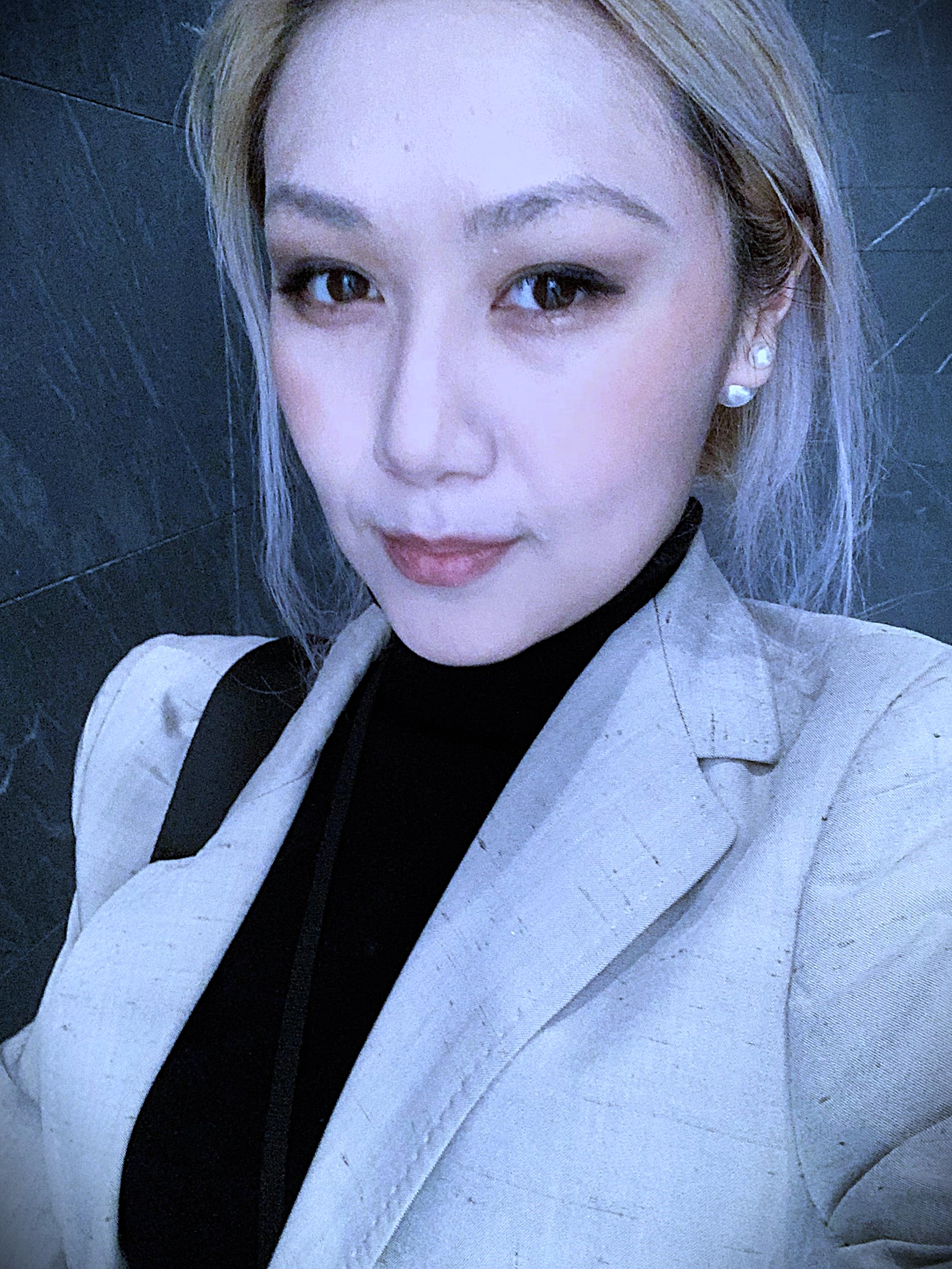
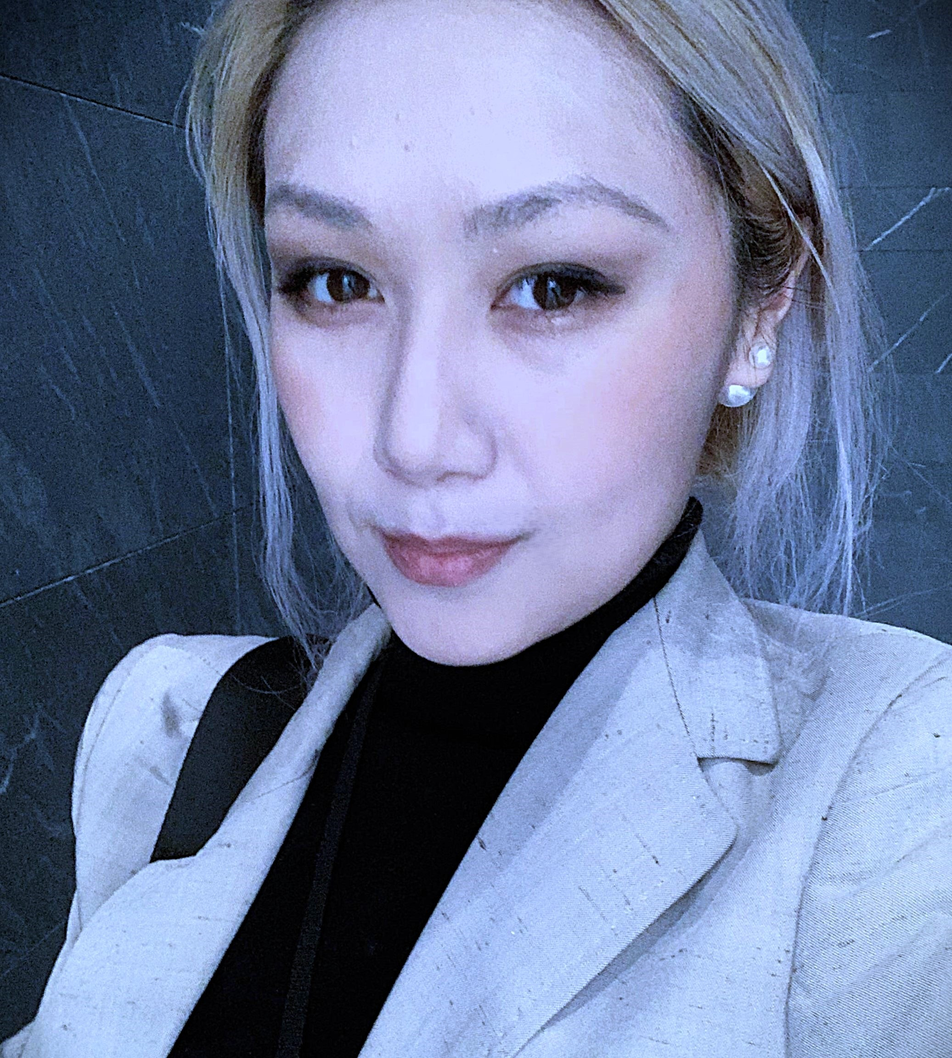
update-profile

diff --git a/index.html b/index.html
@@ -86,7 +86,7 @@
 		<!-- Three -->
 		<section id="three" class="main special">
 			<div class="container">
-				<span class="image fit primary"><center><img src="images/img6.jpg" alt="Shirley - Professional Developer" style="width:300px;height:350px"/></center></span>
+				<span class="image fit primary"><center><img src="images/inova_hospital.jpg" alt="Shirley - Professional Developer" style="width:300px;height:350px"/></center></span>
 				<div class="content">
 					<header class="major">
 						<h2>Who We Are</h2>

diff --git a/assets/css/main.css b/assets/css/main.css
@@ -85,7 +85,7 @@ input, select, textarea {
 	html {
 		background-color: #313a3d;
 		background-attachment: fixed,						fixed;
-		background-image: url("images/overlay.png"), url("../../images/img6.jpg");
+		background-image: url("images/overlay.png"), url("../../images/image (8)-profile -main.jpg");
 		background-position: top left,					center center;
 		background-repeat: repeat,						none;
 		background-size: auto,						cover;
